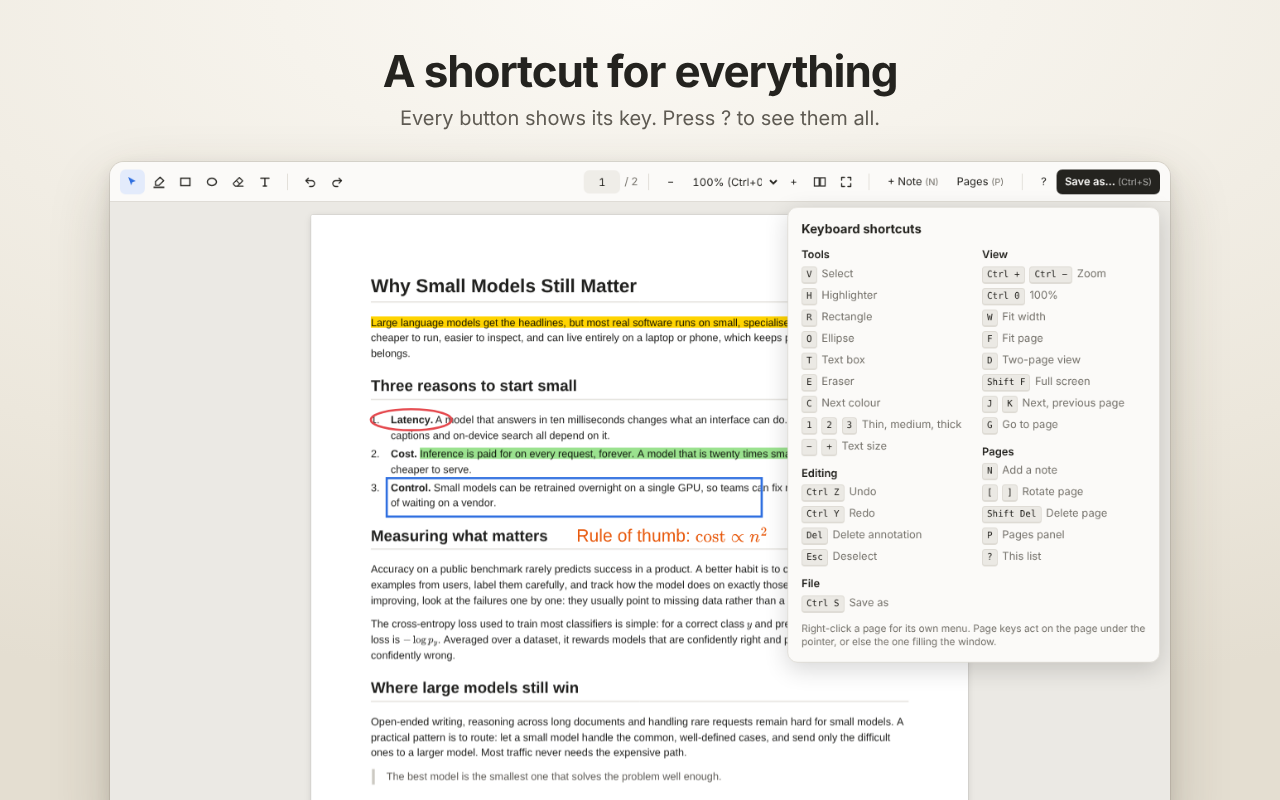
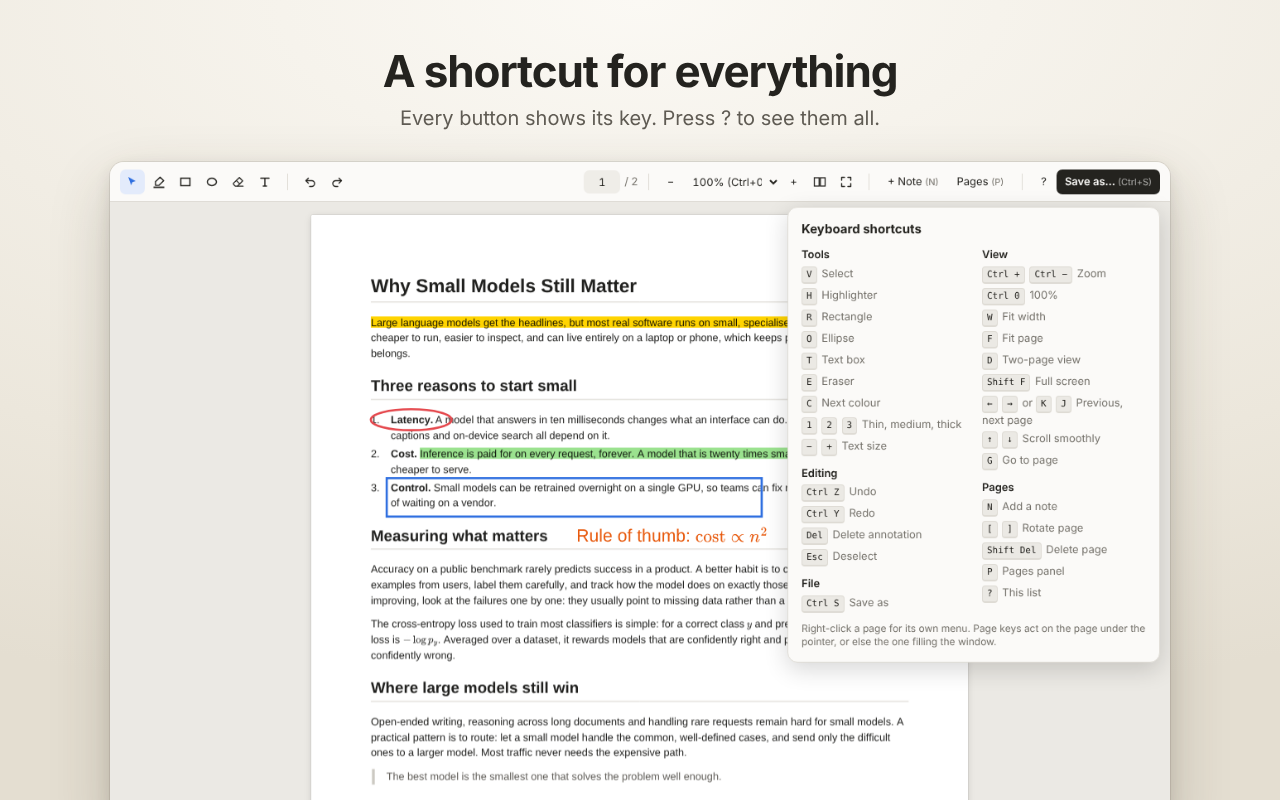
2.3.0: smooth arrow-key scrolling; left/right go to adjacent pages
- Up/Down: rAF-driven glide (eases in, accelerates while held, eases out)
  instead of the browser's stepped key scrolling.
- Left/Right: smooth jump to the previous/next page (pair in two-page view);
  quick presses accumulate. Fields keep their own arrow keys.
- Shortcut sheet, README and store screenshots updated.

Claude-Session: https://claude.ai/code/session_01J2FKQzHtDrhDog4K8PZguZ

Changed region(s): [[0.75, 0.5, 0.875, 0.75]]

diff --git a/extension/viewer.js b/extension/viewer.js
@@ -1366,6 +1366,41 @@ function setWidth(w) {
 }
 
 function goPage(dir) { jumpTo(currentIndex() + dir); }
+
+// ← / →: glide to the previous or next page (or pair of pages, in two-page view). Quick presses add up.
+let pageTarget = -1, pageTargetAt = 0;
+function stepPage(dir) {
+  if (!pages.length) return;
+  const from = performance.now() - pageTargetAt < 700 ? pageTarget : currentIndex();
+  const k = clamp(from + dir * (spread ? 2 : 1), 0, pages.length - 1);
+  pageTarget = k;
+  pageTargetAt = performance.now();
+  pages[k].div.scrollIntoView({ block: 'start', behavior: 'smooth' });
+  showPage(k);
+}
+
+// ↑ / ↓: a smooth glide instead of the browser's steps. Holding the key speeds it up gently;
+// letting go eases it to a stop. A quick tap moves about three lines.
+let glide = null;
+function glideStart(dir) {
+  if (glide) { glide.dir = dir; glide.held = true; return; }
+  const g = glide = { dir, v: 0.45, held: true, t: performance.now() };   // speed in px per ms
+  const tick = now => {
+    if (glide !== g) return;
+    const dt = Math.min(40, now - g.t);
+    g.t = now;
+    if (g.held) g.v = Math.min(1.6, g.v + dt * 0.0022);
+    else if ((g.v -= dt * 0.007) <= 0) { glide = null; return; }
+    const y = scrollY;
+    scrollTo({ top: y + g.dir * g.v * dt, behavior: 'instant' });
+    if (Math.abs(scrollY - y) < 0.01 && dt > 0 && !g.held) { glide = null; return; }   // reached the top or end
+    requestAnimationFrame(tick);
+  };
+  requestAnimationFrame(tick);
+}
+const glideStop = () => { if (glide) glide.held = false; };
+addEventListener('keyup', e => { if (e.key === 'ArrowDown' || e.key === 'ArrowUp') glideStop(); });
+addEventListener('blur', () => { glide = null; });
 function jumpTo(k) {
   k = clamp(k, 0, pages.length - 1);
   pages[k]?.div.scrollIntoView({ block: 'start' });
@@ -1591,6 +1626,8 @@ addEventListener('keydown', e => {
   if (typing) return;
   if (k === 'delete' && e.shiftKey) { e.preventDefault(); const ids = thisPage(); return ids && deletePages(ids); }
   if (k === 'f' && e.shiftKey) { e.preventDefault(); return toggleFull(); }
+  if (!e.shiftKey && (k === 'arrowdown' || k === 'arrowup')) { e.preventDefault(); return glideStart(k === 'arrowdown' ? 1 : -1); }
+  if (!e.shiftKey && (k === 'arrowleft' || k === 'arrowright')) { e.preventDefault(); return stepPage(k === 'arrowright' ? 1 : -1); }
   const fn = KEYS[e.key === '?' ? '?' : k];
   if (!fn) return;
   e.preventDefault();

diff --git a/extension/viewer.html b/extension/viewer.html
@@ -135,7 +135,7 @@
     <dl>
       <dt>View</dt>
       <dd><kbd>Ctrl +</kbd> <kbd>Ctrl −</kbd> Zoom</dd><dd><kbd>Ctrl 0</kbd> 100%</dd><dd><kbd>W</kbd> Fit width</dd><dd><kbd>F</kbd> Fit page</dd>
-      <dd><kbd>D</kbd> Two-page view</dd><dd><kbd>Shift F</kbd> Full screen</dd><dd><kbd>J</kbd> <kbd>K</kbd> Next, previous page</dd><dd><kbd>G</kbd> Go to page</dd>
+      <dd><kbd>D</kbd> Two-page view</dd><dd><kbd>Shift F</kbd> Full screen</dd><dd><kbd>←</kbd> <kbd>→</kbd> or <kbd>K</kbd> <kbd>J</kbd> Previous, next page</dd><dd><kbd>↑</kbd> <kbd>↓</kbd> Scroll smoothly</dd><dd><kbd>G</kbd> Go to page</dd>
       <dt>Pages</dt>
       <dd><kbd>N</kbd> Add a note</dd><dd><kbd>[</kbd> <kbd>]</kbd> Rotate page</dd><dd><kbd>Shift Del</kbd> Delete page</dd>
       <dd><kbd>P</kbd> Pages panel</dd><dd><kbd>?</kbd> This list</dd>

diff --git a/README.md b/README.md
@@ -76,8 +76,9 @@ Coming soon.
 | <kbd>H</kbd> | Highlighter | <kbd>Ctrl</kbd> <kbd>0</kbd> | 100% |
 | <kbd>R</kbd> | Rectangle | <kbd>W</kbd> / <kbd>F</kbd> | Fit width / fit page |
 | <kbd>O</kbd> | Ellipse | <kbd>D</kbd> | Two-page view |
-| <kbd>T</kbd> / <kbd>E</kbd> | Text box / eraser | <kbd>Shift</kbd> <kbd>F</kbd> | Full screen (again, or <kbd>Esc</kbd>, to leave) |
-| <kbd>C</kbd> | Next colour | <kbd>J</kbd> / <kbd>K</kbd> | Next / previous page |
+| <kbd>T</kbd> / <kbd>E</kbd> | Text box / eraser |
+| | | <kbd>↑</kbd> / <kbd>↓</kbd> | Smooth scrolling (hold to go faster) | <kbd>Shift</kbd> <kbd>F</kbd> | Full screen (again, or <kbd>Esc</kbd>, to leave) |
+| <kbd>C</kbd> | Next colour | <kbd>→</kbd> / <kbd>←</kbd> (or <kbd>J</kbd> / <kbd>K</kbd>) | Next / previous page |
 | | | <kbd>G</kbd> | Go to page number |
 | <kbd>1</kbd> <kbd>2</kbd> <kbd>3</kbd> | Thin, medium, thick | | |
 | <kbd>−</kbd> / <kbd>+</kbd> | Smaller / larger text | | |

diff --git a/CHANGELOG.md b/CHANGELOG.md
@@ -1,5 +1,10 @@
 # Changelog
 
+## 2.3.0: smooth arrow-key scrolling, ← → between pages
+
+- <kbd>↑</kbd> / <kbd>↓</kbd> now glide smoothly instead of jumping in steps: a tap moves a few lines, holding speeds up gently, and letting go eases to a stop.
+- <kbd>←</kbd> / <kbd>→</kbd> glide to the previous or next page (the previous or next pair in two-page view). Quick presses add up. Arrow keys still work as usual in text boxes and fields.
+
 ## 2.2.1: full-screen button and F11
 
 - Fixed: after going full screen with Chrome's F11, the full-screen button seemed to stop working (it showed "enter full screen" and clicking it did nothing visible). It now recognises F11, shows the "exit" state, and says to press F11 to leave, since a page isn't allowed to end Chrome's own full screen. Once F11 is off, the button works as before.
